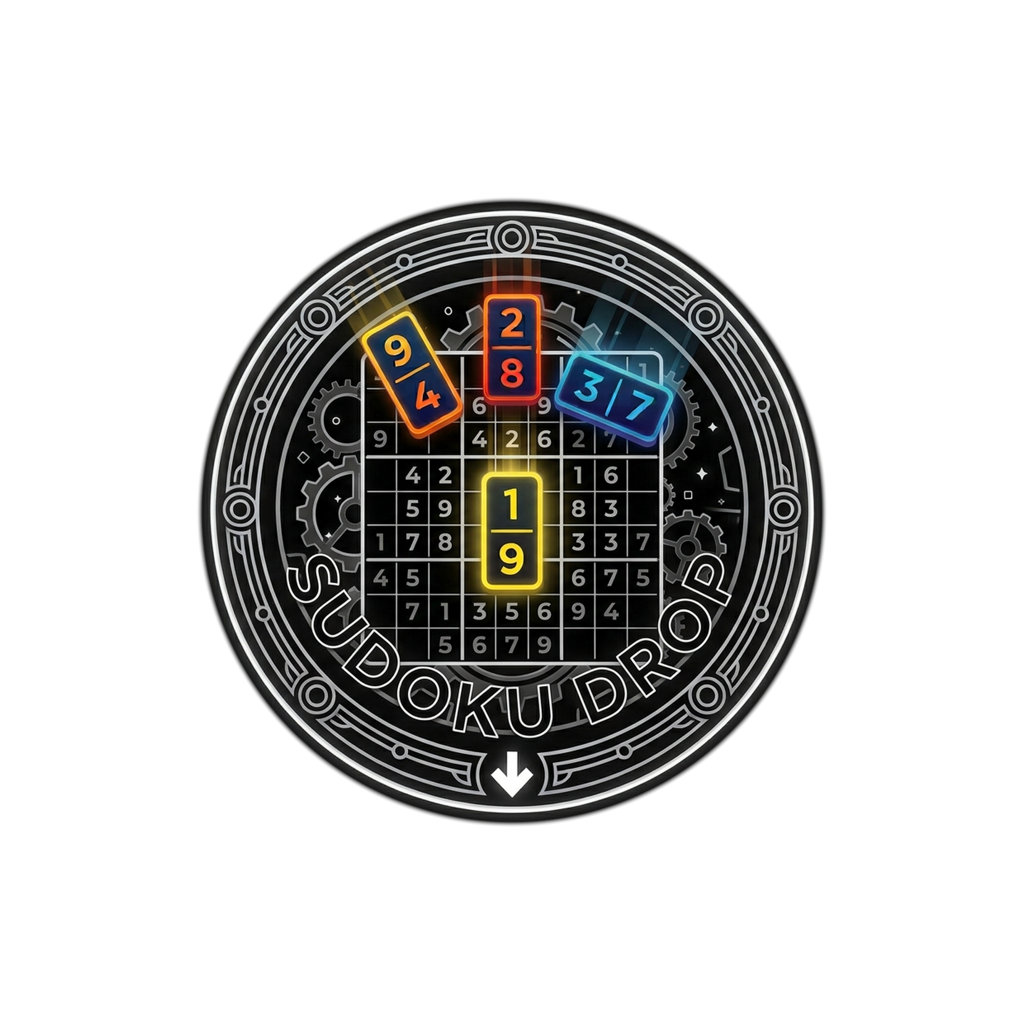
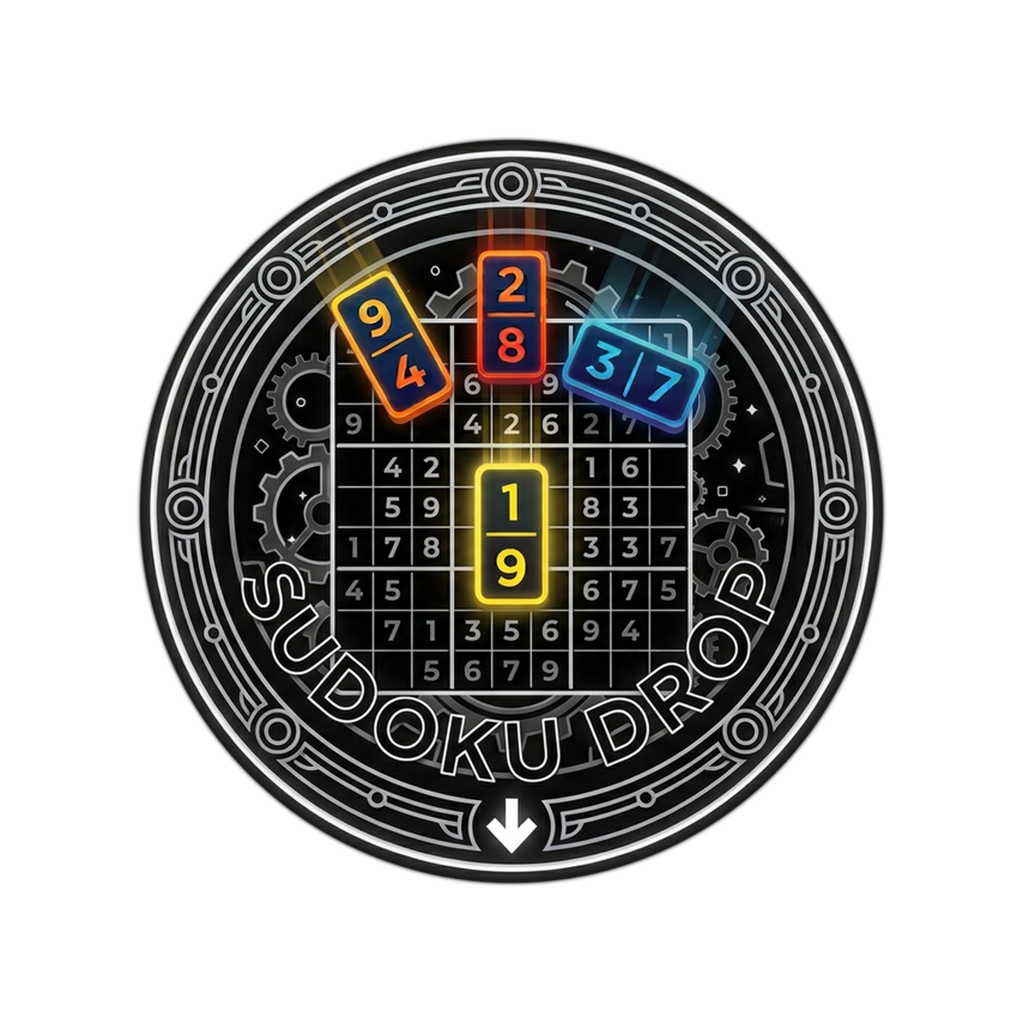
Changes

diff --git a/src/routes/index.tsx b/src/routes/index.tsx
@@ -67,8 +67,8 @@ function Home() {
   };
 
   return (
-    <div className="min-h-screen flex flex-col pb-6">
-      <header className="px-5 pt-5 flex items-center justify-between">
+    <div className="h-full flex flex-col pb-3 overflow-hidden">
+      <header className="px-5 pt-4 flex items-center justify-between shrink-0">
         <h1 className="display text-2xl font-bold">Sudoku Drop</h1>
         <div className="flex items-center gap-2">
           <Link
@@ -126,16 +126,14 @@ function Home() {
         </Link>
       </div>
 
-      <div className="flex-1 flex flex-col items-center justify-center px-5 py-6">
-        <div className="relative isolate w-full max-w-[17rem] aspect-square">
-          <div className="absolute inset-[9%] -z-10 rounded-full bg-primary/35 blur-2xl" />
-          <div className="absolute inset-[16%] -z-10 rounded-full bg-primary/30" />
+      <div className="flex-1 min-h-0 flex flex-col items-center justify-center px-5 py-2">
+        <div className="relative isolate flex-1 min-h-[6rem] w-full max-w-[17rem] max-h-[17rem]">
           <ThemedEmblem theme={activeTheme} />
         </div>
-        <p className="text-sm text-muted-foreground mt-2">{t("Piesele cad. Tu completezi.")}</p>
+        <p className="text-sm text-muted-foreground mt-1 shrink-0">{t("Piesele cad. Tu completezi.")}</p>
         <Link
           to="/tutorial"
-          className="mt-4 inline-flex items-center gap-2 px-4 py-2 rounded-full bg-card border border-border text-sm font-medium text-primary shadow-soft"
+          className="mt-2 shrink-0 inline-flex items-center gap-2 px-4 py-1.5 rounded-full bg-card border border-border text-sm font-medium text-primary shadow-soft"
         >
           <BookOpen className="w-4 h-4" /> {t("Cum se joacă")}
         </Link>

diff --git a/src/routes/play.dropdoku.tsx b/src/routes/play.dropdoku.tsx
@@ -803,6 +803,8 @@ function DropdokuPage() {
   };
 
   const startFresh = () => {
+    // Tournaments (Versus / Time Attack) can never be restarted.
+    if (isSpecial || tkey || vkey) return;
     setSession(null);
     xpAwardedRef.current = false;
     setEndXp(null);
@@ -1113,9 +1115,11 @@ function DropdokuPage() {
                   <Gem className="inline w-4 h-4 mr-1" /> {fmtNum(reviveCost)} — {t("Reînvie")}
                 </button>
               )}
-              <button onClick={startFresh} className="px-6 py-3 rounded-2xl bg-muted font-bold">
-                {t("Joc nou")}
-              </button>
+              {!isSpecial && !tkey && (
+                <button onClick={startFresh} className="px-6 py-3 rounded-2xl bg-muted font-bold">
+                  {t("Joc nou")}
+                </button>
+              )}
               <button
                 onClick={() => navigate({ to: "/" })}
                 className="px-6 py-3 rounded-2xl text-muted-foreground font-semibold"

diff --git a/src/components/BottomTabs.tsx b/src/components/BottomTabs.tsx
@@ -22,7 +22,7 @@ export function BottomTabs() {
     return null;
   }
   return (
-    <nav className="fixed bottom-0 left-0 right-0 z-30 bg-card/95 backdrop-blur border-t border-border">
+    <nav className="shrink-0 z-30 bg-card/95 backdrop-blur border-t border-border">
       <div className="max-w-md mx-auto grid grid-cols-4 px-2 py-1.5 pb-[max(0.375rem,env(safe-area-inset-bottom))]">
         {TABS.map(({ to, label, Icon }) => {
           const active = to === "/" ? pathname === "/" : pathname.startsWith(to);

diff --git a/src/styles.css b/src/styles.css
@@ -440,9 +440,8 @@ html, body { height: 100%; overflow: hidden; overscroll-behavior: none; }
   flex: 1 1 auto;
   min-height: 0;
   overflow-y: auto;
-  padding-bottom: 5rem;
 }
 .app-content .min-h-screen { min-height: 100%; }
 
-/* Game screens have no bottom tabs → no reserved space, no scroll. */
-.app-frame:not(:has(nav)) .app-content { padding-bottom: 0; overflow: hidden; }
+/* Game screens have no bottom tabs → no scroll at all. */
+.app-frame:not(:has(nav)) .app-content { overflow: hidden; }

diff --git a/scripts/inject-admob-android.js b/scripts/inject-admob-android.js
@@ -88,8 +88,8 @@ function ensureBillingDependency() {
 }
 
 /** Play Console needs a higher versionCode on every upload. Bump APP_VERSION_CODE each release. */
-const APP_VERSION_CODE = 3;
-const APP_VERSION_NAME = "1.0.2";
+const APP_VERSION_CODE = 4;
+const APP_VERSION_NAME = "1.0.3";
 function ensureVersion() {
   const gradlePath = path.resolve("android/app/build.gradle");
   if (!fs.existsSync(gradlePath)) return;

diff --git a/src/components/ThemedEmblem.tsx b/src/components/ThemedEmblem.tsx
@@ -5,7 +5,7 @@ export function ThemedEmblem({ theme: _theme }: { theme: string }) {
     <img
       src={emblemAsset.url}
       alt="Emblema rotundă Sudoku Drop cu piese numerotate care cad"
-      className="h-full w-full object-contain drop-shadow-xl"
+      className="absolute inset-0 h-full w-full object-contain drop-shadow-xl"
     />
   );
 }
